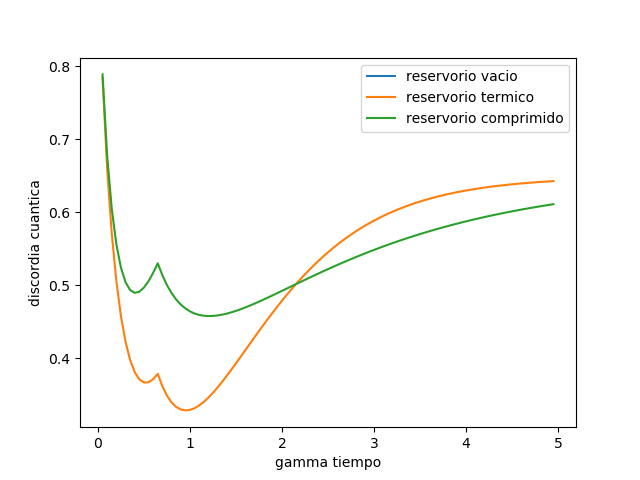
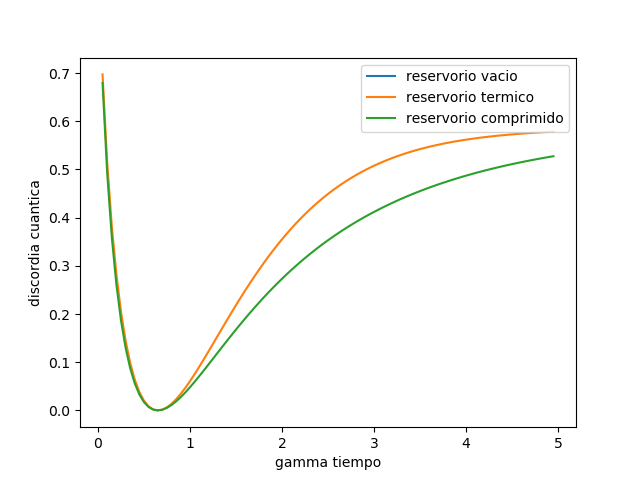
Cambio generado con script

diff --git a/master.py b/master.py
@@ -56,9 +56,9 @@ disc_I5_S0S=[0 for i in range(100)]
 
 for i in range (0,100):
       mat=Qobj(em_I1_S0S.states[i])
-      c1=0.5*mat.eigenenergies()[2]+mat.eigenenergies()[3]-mat.eigenenergies()[0]-mat.eigenenergies()[1]
-      c2=0.5*mat.eigenenergies()[1]+mat.eigenenergies()[3]-mat.eigenenergies()[0]-mat.eigenenergies()[2]
-      c3=0.5*mat.eigenenergies()[1]+mat.eigenenergies()[2]-mat.eigenenergies()[0]-mat.eigenenergies()[3]
+      c1=mat.eigenenergies()[2]+mat.eigenenergies()[3]-mat.eigenenergies()[0]-mat.eigenenergies()[1]
+      c2=mat.eigenenergies()[1]+mat.eigenenergies()[3]-mat.eigenenergies()[0]-mat.eigenenergies()[2]
+      c3=mat.eigenenergies()[1]+mat.eigenenergies()[2]-mat.eigenenergies()[0]-mat.eigenenergies()[3]
       print (c1,c2,c3)
       consar=np.array([c1,c2,c3])
       c=np.amax(consar)
@@ -67,9 +67,9 @@ for i in range (0,100):
 
 for i in range (0,100):
       mat=Qobj(em_I2_S0S.states[i])
-      c1=0.5*mat.eigenenergies()[2]+mat.eigenenergies()[3]-mat.eigenenergies()[0]-mat.eigenenergies()[1]
-      c2=0.5*mat.eigenenergies()[1]+mat.eigenenergies()[3]-mat.eigenenergies()[0]-mat.eigenenergies()[2]
-      c3=0.5*mat.eigenenergies()[1]+mat.eigenenergies()[2]-mat.eigenenergies()[0]-mat.eigenenergies()[3]
+      c1=mat.eigenenergies()[2]+mat.eigenenergies()[3]-mat.eigenenergies()[0]-mat.eigenenergies()[1]
+      c2=mat.eigenenergies()[1]+mat.eigenenergies()[3]-mat.eigenenergies()[0]-mat.eigenenergies()[2]
+      c3=mat.eigenenergies()[1]+mat.eigenenergies()[2]-mat.eigenenergies()[0]-mat.eigenenergies()[3]
       print (c1,c2,c3)
       consar=np.array([c1,c2,c3])
       c=np.amax(consar)
@@ -79,9 +79,9 @@ for i in range (0,100):
 
 for i in range (0,100):
       mat=Qobj(em_I3_S0S.states[i])
-      c1=0.5*mat.eigenenergies()[2]+mat.eigenenergies()[3]-mat.eigenenergies()[0]-mat.eigenenergies()[1]
-      c2=0.5*mat.eigenenergies()[1]+mat.eigenenergies()[3]-mat.eigenenergies()[0]-mat.eigenenergies()[2]
-      c3=0.5*mat.eigenenergies()[1]+mat.eigenenergies()[2]-mat.eigenenergies()[0]-mat.eigenenergies()[3]
+      c1=mat.eigenenergies()[2]+mat.eigenenergies()[3]-mat.eigenenergies()[0]-mat.eigenenergies()[1]
+      c2=mat.eigenenergies()[1]+mat.eigenenergies()[3]-mat.eigenenergies()[0]-mat.eigenenergies()[2]
+      c3=mat.eigenenergies()[1]+mat.eigenenergies()[2]-mat.eigenenergies()[0]-mat.eigenenergies()[3]
       print (c1,c2,c3)
       consar=np.array([c1,c2,c3])
       c=np.amax(consar)
@@ -91,9 +91,9 @@ for i in range (0,100):
 
 for i in range (0,100):
       mat=Qobj(em_I4_S0S.states[i])
-      c1=0.5*mat.eigenenergies()[2]+mat.eigenenergies()[3]-mat.eigenenergies()[0]-mat.eigenenergies()[1]
-      c2=0.5*mat.eigenenergies()[1]+mat.eigenenergies()[3]-mat.eigenenergies()[0]-mat.eigenenergies()[2]
-      c3=0.5*mat.eigenenergies()[1]+mat.eigenenergies()[2]-mat.eigenenergies()[0]-mat.eigenenergies()[3]
+      c1=mat.eigenenergies()[2]+mat.eigenenergies()[3]-mat.eigenenergies()[0]-mat.eigenenergies()[1]
+      c2=mat.eigenenergies()[1]+mat.eigenenergies()[3]-mat.eigenenergies()[0]-mat.eigenenergies()[2]
+      c3=mat.eigenenergies()[1]+mat.eigenenergies()[2]-mat.eigenenergies()[0]-mat.eigenenergies()[3]
       print(c1,c2,c3)
       consar=np.array([c1,c2,c3])
       c=np.amax(consar)
@@ -103,9 +103,9 @@ for i in range (0,100):
 
 for i in range (0,100):
       mat=Qobj(em_I5_S0S.states[i])
-      c1=0.5*mat.eigenenergies()[2]+mat.eigenenergies()[3]-mat.eigenenergies()[0]-mat.eigenenergies()[1]
-      c2=0.5*mat.eigenenergies()[1]+mat.eigenenergies()[3]-mat.eigenenergies()[0]-mat.eigenenergies()[2]
-      c3=0.5*mat.eigenenergies()[1]+mat.eigenenergies()[2]-mat.eigenenergies()[0]-mat.eigenenergies()[3]
+      c1=mat.eigenenergies()[2]+mat.eigenenergies()[3]-mat.eigenenergies()[0]-mat.eigenenergies()[1]
+      c2=mat.eigenenergies()[1]+mat.eigenenergies()[3]-mat.eigenenergies()[0]-mat.eigenenergies()[2]
+      c3=mat.eigenenergies()[1]+mat.eigenenergies()[2]-mat.eigenenergies()[0]-mat.eigenenergies()[3]
       print (c1,c2,c3)
       consar=np.array([c1,c2,c3])
       c=np.amax(consar)
@@ -126,9 +126,9 @@ conc_I5_S1S=[0 for i in range(100)]
 disc_I5_S1S=[0 for i in range(100)]
 for i in range (0,100):
       mat=Qobj(em_I1_S1S.states[i])
-      c1=0.5*mat.eigenenergies()[2]+mat.eigenenergies()[3]-mat.eigenenergies()[0]-mat.eigenenergies()[1]
-      c2=0.5*mat.eigenenergies()[1]+mat.eigenenergies()[3]-mat.eigenenergies()[0]-mat.eigenenergies()[2]
-      c3=0.5*mat.eigenenergies()[1]+mat.eigenenergies()[2]-mat.eigenenergies()[0]-mat.eigenenergies()[3]
+      c1=mat.eigenenergies()[2]+mat.eigenenergies()[3]-mat.eigenenergies()[0]-mat.eigenenergies()[1]
+      c2=mat.eigenenergies()[1]+mat.eigenenergies()[3]-mat.eigenenergies()[0]-mat.eigenenergies()[2]
+      c3=mat.eigenenergies()[1]+mat.eigenenergies()[2]-mat.eigenenergies()[0]-mat.eigenenergies()[3]
       print (c1,c2,c3)
       consar=np.array([c1,c2,c3])
       c=np.amax(consar)
@@ -138,9 +138,9 @@ for i in range (0,100):
 
 for i in range (0,100):
     mat=Qobj(em_I2_S1S.states[i])
-    c1=0.5*mat.eigenenergies()[2]+mat.eigenenergies()[3]-mat.eigenenergies()[0]-mat.eigenenergies()[1]
-    c2=0.5*mat.eigenenergies()[1]+mat.eigenenergies()[3]-mat.eigenenergies()[0]-mat.eigenenergies()[2]
-    c3=0.5*mat.eigenenergies()[1]+mat.eigenenergies()[2]-mat.eigenenergies()[0]-mat.eigenenergies()[3]
+    c1=mat.eigenenergies()[2]+mat.eigenenergies()[3]-mat.eigenenergies()[0]-mat.eigenenergies()[1]
+    c2=mat.eigenenergies()[1]+mat.eigenenergies()[3]-mat.eigenenergies()[0]-mat.eigenenergies()[2]
+    c3=mat.eigenenergies()[1]+mat.eigenenergies()[2]-mat.eigenenergies()[0]-mat.eigenenergies()[3]
     print (c1,c2,c3)
     consar=np.array([c1,c2,c3])
     c=np.amax(consar)
@@ -150,9 +150,9 @@ for i in range (0,100):
 
 for i in range (0,100):
     mat=Qobj(em_I3_S1S.states[i])
-    c1=0.5*mat.eigenenergies()[2]+mat.eigenenergies()[3]-mat.eigenenergies()[0]-mat.eigenenergies()[1]
-    c2=0.5*mat.eigenenergies()[1]+mat.eigenenergies()[3]-mat.eigenenergies()[0]-mat.eigenenergies()[2]
-    c3=0.5*mat.eigenenergies()[1]+mat.eigenenergies()[2]-mat.eigenenergies()[0]-mat.eigenenergies()[3]
+    c1=mat.eigenenergies()[2]+mat.eigenenergies()[3]-mat.eigenenergies()[0]-mat.eigenenergies()[1]
+    c2=mat.eigenenergies()[1]+mat.eigenenergies()[3]-mat.eigenenergies()[0]-mat.eigenenergies()[2]
+    c3=mat.eigenenergies()[1]+mat.eigenenergies()[2]-mat.eigenenergies()[0]-mat.eigenenergies()[3]
     print (c1,c2,c3)
     consar=np.array([c1,c2,c3])
     c=np.amax(consar)
@@ -162,9 +162,9 @@ for i in range (0,100):
 
 for i in range (0,100):
     mat=Qobj(em_I4_S1S.states[i])
-    c1=0.5*mat.eigenenergies()[2]+mat.eigenenergies()[3]-mat.eigenenergies()[0]-mat.eigenenergies()[1]
-    c2=0.5*mat.eigenenergies()[1]+mat.eigenenergies()[3]-mat.eigenenergies()[0]-mat.eigenenergies()[2]
-    c3=0.5*mat.eigenenergies()[1]+mat.eigenenergies()[2]-mat.eigenenergies()[0]-mat.eigenenergies()[3]
+    c1=mat.eigenenergies()[2]+mat.eigenenergies()[3]-mat.eigenenergies()[0]-mat.eigenenergies()[1]
+    c2=mat.eigenenergies()[1]+mat.eigenenergies()[3]-mat.eigenenergies()[0]-mat.eigenenergies()[2]
+    c3=mat.eigenenergies()[1]+mat.eigenenergies()[2]-mat.eigenenergies()[0]-mat.eigenenergies()[3]
     print (c1,c2,c3)
     consar=np.array([c1,c2,c3])
     c=np.amax(consar)
@@ -173,9 +173,9 @@ for i in range (0,100):
 
 for i in range (0,100):
     mat=Qobj(em_I5_S1S.states[i])
-    c1=0.5*mat.eigenenergies()[2]+mat.eigenenergies()[3]-mat.eigenenergies()[0]-mat.eigenenergies()[1]
-    c2=0.5*mat.eigenenergies()[1]+mat.eigenenergies()[3]-mat.eigenenergies()[0]-mat.eigenenergies()[2]
-    c3=0.5*mat.eigenenergies()[1]+mat.eigenenergies()[2]-mat.eigenenergies()[0]-mat.eigenenergies()[3]
+    c1=mat.eigenenergies()[2]+mat.eigenenergies()[3]-mat.eigenenergies()[0]-mat.eigenenergies()[1]
+    c2=mat.eigenenergies()[1]+mat.eigenenergies()[3]-mat.eigenenergies()[0]-mat.eigenenergies()[2]
+    c3=mat.eigenenergies()[1]+mat.eigenenergies()[2]-mat.eigenenergies()[0]-mat.eigenenergies()[3]
     print (c1,c2,c3)
     consar=np.array([c1,c2,c3])
     c=np.amax(consar)
@@ -196,9 +196,9 @@ conc_I5_S2S=[0 for i in range(100)]
 disc_I5_S2S=[0 for i in range(100)]
 for i in range (0,100):
     mat=Qobj(em_I1_S2S.states[i])
-    c1=0.5*mat.eigenenergies()[2]+mat.eigenenergies()[3]-mat.eigenenergies()[0]-mat.eigenenergies()[1]
-    c2=0.5*mat.eigenenergies()[1]+mat.eigenenergies()[3]-mat.eigenenergies()[0]-mat.eigenenergies()[2]
-    c3=0.5*mat.eigenenergies()[1]+mat.eigenenergies()[2]-mat.eigenenergies()[0]-mat.eigenenergies()[3]
+    c1=mat.eigenenergies()[2]+mat.eigenenergies()[3]-mat.eigenenergies()[0]-mat.eigenenergies()[1]
+    c2=mat.eigenenergies()[1]+mat.eigenenergies()[3]-mat.eigenenergies()[0]-mat.eigenenergies()[2]
+    c3=mat.eigenenergies()[1]+mat.eigenenergies()[2]-mat.eigenenergies()[0]-mat.eigenenergies()[3]
     print (c1,c2,c3)
     consar=np.array([c1,c2,c3])
     c=np.amax(consar)
@@ -207,9 +207,9 @@ for i in range (0,100):
 
 for i in range (0,100):
     mat=Qobj(em_I2_S2S.states[i])
-    c1=0.5*mat.eigenenergies()[2]+mat.eigenenergies()[3]-mat.eigenenergies()[0]-mat.eigenenergies()[1]
-    c2=0.5*mat.eigenenergies()[1]+mat.eigenenergies()[3]-mat.eigenenergies()[0]-mat.eigenenergies()[2]
-    c3=0.5*mat.eigenenergies()[1]+mat.eigenenergies()[2]-mat.eigenenergies()[0]-mat.eigenenergies()[3]
+    c1=mat.eigenenergies()[2]+mat.eigenenergies()[3]-mat.eigenenergies()[0]-mat.eigenenergies()[1]
+    c2=mat.eigenenergies()[1]+mat.eigenenergies()[3]-mat.eigenenergies()[0]-mat.eigenenergies()[2]
+    c3=mat.eigenenergies()[1]+mat.eigenenergies()[2]-mat.eigenenergies()[0]-mat.eigenenergies()[3]
     print (c1,c2,c3)
     consar=np.array([c1,c2,c3])
     c=np.amax(consar)
@@ -218,9 +218,9 @@ for i in range (0,100):
 
 for i in range (0,100):
     mat=Qobj(em_I3_S2S.states[i])
-    c1=0.5*mat.eigenenergies()[2]+mat.eigenenergies()[3]-mat.eigenenergies()[0]-mat.eigenenergies()[1]
-    c2=0.5*mat.eigenenergies()[1]+mat.eigenenergies()[3]-mat.eigenenergies()[0]-mat.eigenenergies()[2]
-    c3=0.5*mat.eigenenergies()[1]+mat.eigenenergies()[2]-mat.eigenenergies()[0]-mat.eigenenergies()[3]
+    c1=mat.eigenenergies()[2]+mat.eigenenergies()[3]-mat.eigenenergies()[0]-mat.eigenenergies()[1]
+    c2=mat.eigenenergies()[1]+mat.eigenenergies()[3]-mat.eigenenergies()[0]-mat.eigenenergies()[2]
+    c3=mat.eigenenergies()[1]+mat.eigenenergies()[2]-mat.eigenenergies()[0]-mat.eigenenergies()[3]
     print (c1,c2,c3)
     consar=np.array([c1,c2,c3])
     c=np.amax(consar)
@@ -230,9 +230,9 @@ for i in range (0,100):
 
 for i in range (0,100):
     mat=Qobj(em_I4_S2S.states[i])
-    c1=0.5*mat.eigenenergies()[2]+mat.eigenenergies()[3]-mat.eigenenergies()[0]-mat.eigenenergies()[1]
-    c2=0.5*mat.eigenenergies()[1]+mat.eigenenergies()[3]-mat.eigenenergies()[0]-mat.eigenenergies()[2]
-    c3=0.5*mat.eigenenergies()[1]+mat.eigenenergies()[2]-mat.eigenenergies()[0]-mat.eigenenergies()[3]
+    c1=mat.eigenenergies()[2]+mat.eigenenergies()[3]-mat.eigenenergies()[0]-mat.eigenenergies()[1]
+    c2=mat.eigenenergies()[1]+mat.eigenenergies()[3]-mat.eigenenergies()[0]-mat.eigenenergies()[2]
+    c3=mat.eigenenergies()[1]+mat.eigenenergies()[2]-mat.eigenenergies()[0]-mat.eigenenergies()[3]
     print (c1,c2,c3)
     consar=np.array([c1,c2,c3])
     c=np.amax(consar)
@@ -242,9 +242,9 @@ for i in range (0,100):
 
 for i in range (0,100):
     mat=Qobj(em_I5_S2S.states[i])
-    c1=0.5*mat.eigenenergies()[2]+mat.eigenenergies()[3]-mat.eigenenergies()[0]-mat.eigenenergies()[1]
-    c2=0.5*mat.eigenenergies()[1]+mat.eigenenergies()[3]-mat.eigenenergies()[0]-mat.eigenenergies()[2]
-    c3=0.5*mat.eigenenergies()[1]+mat.eigenenergies()[2]-mat.eigenenergies()[0]-mat.eigenenergies()[3]
+    c1=mat.eigenenergies()[2]+mat.eigenenergies()[3]-mat.eigenenergies()[0]-mat.eigenenergies()[1]
+    c2=mat.eigenenergies()[1]+mat.eigenenergies()[3]-mat.eigenenergies()[0]-mat.eigenenergies()[2]
+    c3=mat.eigenenergies()[1]+mat.eigenenergies()[2]-mat.eigenenergies()[0]-mat.eigenenergies()[3]
     print (c1,c2,c3)
     consar=np.array([c1,c2,c3])
     c=np.amax(consar)
@@ -265,9 +265,9 @@ conc_I5_S0C=[0 for i in range(100)]
 disc_I5_S0C=[0 for i in range(100)]
 for i in range (0,100):
     mat=Qobj(em_I1_S0C.states[i])
-    c1=0.5*mat.eigenenergies()[2]+mat.eigenenergies()[3]-mat.eigenenergies()[0]-mat.eigenenergies()[1]
-    c2=0.5*mat.eigenenergies()[1]+mat.eigenenergies()[3]-mat.eigenenergies()[0]-mat.eigenenergies()[2]
-    c3=0.5*mat.eigenenergies()[1]+mat.eigenenergies()[2]-mat.eigenenergies()[0]-mat.eigenenergies()[3]
+    c1=mat.eigenenergies()[2]+mat.eigenenergies()[3]-mat.eigenenergies()[0]-mat.eigenenergies()[1]
+    c2=mat.eigenenergies()[1]+mat.eigenenergies()[3]-mat.eigenenergies()[0]-mat.eigenenergies()[2]
+    c3=mat.eigenenergies()[1]+mat.eigenenergies()[2]-mat.eigenenergies()[0]-mat.eigenenergies()[3]
     print (c1,c2,c3)
     consar=np.array([c1,c2,c3])
     c=np.amax(consar)
@@ -277,9 +277,9 @@ for i in range (0,100):
 
 for i in range (0,100):
     mat=Qobj(em_I2_S0C.states[i])
-    c1=0.5*mat.eigenenergies()[2]+mat.eigenenergies()[3]-mat.eigenenergies()[0]-mat.eigenenergies()[1]
-    c2=0.5*mat.eigenenergies()[1]+mat.eigenenergies()[3]-mat.eigenenergies()[0]-mat.eigenenergies()[2]
-    c3=0.5*mat.eigenenergies()[1]+mat.eigenenergies()[2]-mat.eigenenergies()[0]-mat.eigenenergies()[3]
+    c1=mat.eigenenergies()[2]+mat.eigenenergies()[3]-mat.eigenenergies()[0]-mat.eigenenergies()[1]
+    c2=mat.eigenenergies()[1]+mat.eigenenergies()[3]-mat.eigenenergies()[0]-mat.eigenenergies()[2]
+    c3=mat.eigenenergies()[1]+mat.eigenenergies()[2]-mat.eigenenergies()[0]-mat.eigenenergies()[3]
     print (c1,c2,c3)
     consar=np.array([c1,c2,c3])
     c=np.amax(consar)
@@ -289,9 +289,9 @@ for i in range (0,100):
 
 for i in range (0,100):
     mat=Qobj(em_I3_S0C.states[i])
-    c1=0.5*mat.eigenenergies()[2]+mat.eigenenergies()[3]-mat.eigenenergies()[0]-mat.eigenenergies()[1]
-    c2=0.5*mat.eigenenergies()[1]+mat.eigenenergies()[3]-mat.eigenenergies()[0]-mat.eigenenergies()[2]
-    c3=0.5*mat.eigenenergies()[1]+mat.eigenenergies()[2]-mat.eigenenergies()[0]-mat.eigenenergies()[3]
+    c1=mat.eigenenergies()[2]+mat.eigenenergies()[3]-mat.eigenenergies()[0]-mat.eigenenergies()[1]
+    c2=mat.eigenenergies()[1]+mat.eigenenergies()[3]-mat.eigenenergies()[0]-mat.eigenenergies()[2]
+    c3=mat.eigenenergies()[1]+mat.eigenenergies()[2]-mat.eigenenergies()[0]-mat.eigenenergies()[3]
     print (c1,c2,c3)
     consar=np.array([c1,c2,c3])
     c=np.amax(consar)
@@ -301,9 +301,9 @@ for i in range (0,100):
 
 for i in range (0,100):
     mat=Qobj(em_I4_S0C.states[i])
-    c1=0.5*mat.eigenenergies()[2]+mat.eigenenergies()[3]-mat.eigenenergies()[0]-mat.eigenenergies()[1]
-    c2=0.5*mat.eigenenergies()[1]+mat.eigenenergies()[3]-mat.eigenenergies()[0]-mat.eigenenergies()[2]
-    c3=0.5*mat.eigenenergies()[1]+mat.eigenenergies()[2]-mat.eigenenergies()[0]-mat.eigenenergies()[3]
+    c1=mat.eigenenergies()[2]+mat.eigenenergies()[3]-mat.eigenenergies()[0]-mat.eigenenergies()[1]
+    c2=mat.eigenenergies()[1]+mat.eigenenergies()[3]-mat.eigenenergies()[0]-mat.eigenenergies()[2]
+    c3=mat.eigenenergies()[1]+mat.eigenenergies()[2]-mat.eigenenergies()[0]-mat.eigenenergies()[3]
     print(c1,c2,c3)
     consar=np.array([c1,c2,c3])
     c=np.amax(consar)
@@ -313,9 +313,9 @@ for i in range (0,100):
 
 for i in range (0,100):
     mat=Qobj(em_I5_S0C.states[i])
-    c1=0.5*mat.eigenenergies()[2]+mat.eigenenergies()[3]-mat.eigenenergies()[0]-mat.eigenenergies()[1]
-    c2=0.5*mat.eigenenergies()[1]+mat.eigenenergies()[3]-mat.eigenenergies()[0]-mat.eigenenergies()[2]
-    c3=0.5*mat.eigenenergies()[1]+mat.eigenenergies()[2]-mat.eigenenergies()[0]-mat.eigenenergies()[3]
+    c1=mat.eigenenergies()[2]+mat.eigenenergies()[3]-mat.eigenenergies()[0]-mat.eigenenergies()[1]
+    c2=mat.eigenenergies()[1]+mat.eigenenergies()[3]-mat.eigenenergies()[0]-mat.eigenenergies()[2]
+    c3=mat.eigenenergies()[1]+mat.eigenenergies()[2]-mat.eigenenergies()[0]-mat.eigenenergies()[3]
     print (c1,c2,c3)
     consar=np.array([c1,c2,c3])
     c=np.amax(consar)
@@ -336,9 +336,9 @@ conc_I5_S1C=[0 for i in range(100)]
 disc_I5_S1C=[0 for i in range(100)]
 for i in range (0,100):
     mat=Qobj(em_I1_S1C.states[i])
-    c1=0.5*mat.eigenenergies()[2]+mat.eigenenergies()[3]-mat.eigenenergies()[0]-mat.eigenenergies()[1]
-    c2=0.5*mat.eigenenergies()[1]+mat.eigenenergies()[3]-mat.eigenenergies()[0]-mat.eigenenergies()[2]
-    c3=0.5*mat.eigenenergies()[1]+mat.eigenenergies()[2]-mat.eigenenergies()[0]-mat.eigenenergies()[3]
+    c1=mat.eigenenergies()[2]+mat.eigenenergies()[3]-mat.eigenenergies()[0]-mat.eigenenergies()[1]
+    c2=mat.eigenenergies()[1]+mat.eigenenergies()[3]-mat.eigenenergies()[0]-mat.eigenenergies()[2]
+    c3=mat.eigenenergies()[1]+mat.eigenenergies()[2]-mat.eigenenergies()[0]-mat.eigenenergies()[3]
     print (c1,c2,c3)
     consar=np.array([c1,c2,c3])
     c=np.amax(consar)
@@ -348,9 +348,9 @@ for i in range (0,100):
     
 for i in range (0,100):
     mat=Qobj(em_I2_S1C.states[i])
-    c1=0.5*mat.eigenenergies()[2]+mat.eigenenergies()[3]-mat.eigenenergies()[0]-mat.eigenenergies()[1]
-    c2=0.5*mat.eigenenergies()[1]+mat.eigenenergies()[3]-mat.eigenenergies()[0]-mat.eigenenergies()[2]
-    c3=0.5*mat.eigenenergies()[1]+mat.eigenenergies()[2]-mat.eigenenergies()[0]-mat.eigenenergies()[3]
+    c1=mat.eigenenergies()[2]+mat.eigenenergies()[3]-mat.eigenenergies()[0]-mat.eigenenergies()[1]
+    c2=mat.eigenenergies()[1]+mat.eigenenergies()[3]-mat.eigenenergies()[0]-mat.eigenenergies()[2]
+    c3=mat.eigenenergies()[1]+mat.eigenenergies()[2]-mat.eigenenergies()[0]-mat.eigenenergies()[3]
     print (c1,c2,c3)
     consar=np.array([c1,c2,c3])
     c=np.amax(consar)
@@ -360,9 +360,9 @@ for i in range (0,100):
 
 for i in range (0,100):
     mat=Qobj(em_I3_S1C.states[i])
-    c1=0.5*mat.eigenenergies()[2]+mat.eigenenergies()[3]-mat.eigenenergies()[0]-mat.eigenenergies()[1]
-    c2=0.5*mat.eigenenergies()[1]+mat.eigenenergies()[3]-mat.eigenenergies()[0]-mat.eigenenergies()[2]
-    c3=0.5*mat.eigenenergies()[1]+mat.eigenenergies()[2]-mat.eigenenergies()[0]-mat.eigenenergies()[3]
+    c1=mat.eigenenergies()[2]+mat.eigenenergies()[3]-mat.eigenenergies()[0]-mat.eigenenergies()[1]
+    c2=mat.eigenenergies()[1]+mat.eigenenergies()[3]-mat.eigenenergies()[0]-mat.eigenenergies()[2]
+    c3=mat.eigenenergies()[1]+mat.eigenenergies()[2]-mat.eigenenergies()[0]-mat.eigenenergies()[3]
     print (c1,c2,c3)
     consar=np.array([c1,c2,c3])
     c=np.amax(consar)
@@ -372,9 +372,9 @@ for i in range (0,100):
 
 for i in range (0,100):
     mat=Qobj(em_I4_S1C.states[i])
-    c1=0.5*mat.eigenenergies()[2]+mat.eigenenergies()[3]-mat.eigenenergies()[0]-mat.eigenenergies()[1]
-    c2=0.5*mat.eigenenergies()[1]+mat.eigenenergies()[3]-mat.eigenenergies()[0]-mat.eigenenergies()[2]
-    c3=0.5*mat.eigenenergies()[1]+mat.eigenenergies()[2]-mat.eigenenergies()[0]-mat.eigenenergies()[3]
+    c1=mat.eigenenergies()[2]+mat.eigenenergies()[3]-mat.eigenenergies()[0]-mat.eigenenergies()[1]
+    c2=mat.eigenenergies()[1]+mat.eigenenergies()[3]-mat.eigenenergies()[0]-mat.eigenenergies()[2]
+    c3=mat.eigenenergies()[1]+mat.eigenenergies()[2]-mat.eigenenergies()[0]-mat.eigenenergies()[3]
     print (c1,c2,c3)
     consar=np.array([c1,c2,c3])
     c=np.amax(consar)
@@ -384,9 +384,9 @@ for i in range (0,100):
 
 for i in range (0,100):
     mat=Qobj(em_I5_S1C.states[i])
-    c1=0.5*mat.eigenenergies()[2]+mat.eigenenergies()[3]-mat.eigenenergies()[0]-mat.eigenenergies()[1]
-    c2=0.5*mat.eigenenergies()[1]+mat.eigenenergies()[3]-mat.eigenenergies()[0]-mat.eigenenergies()[2]
-    c3=0.5*mat.eigenenergies()[1]+mat.eigenenergies()[2]-mat.eigenenergies()[0]-mat.eigenenergies()[3]
+    c1=mat.eigenenergies()[2]+mat.eigenenergies()[3]-mat.eigenenergies()[0]-mat.eigenenergies()[1]
+    c2=mat.eigenenergies()[1]+mat.eigenenergies()[3]-mat.eigenenergies()[0]-mat.eigenenergies()[2]
+    c3=mat.eigenenergies()[1]+mat.eigenenergies()[2]-mat.eigenenergies()[0]-mat.eigenenergies()[3]
     print (c1,c2,c3)
     consar=np.array([c1,c2,c3])
     c=np.amax(consar)
@@ -407,9 +407,9 @@ conc_I5_S2C=[0 for i in range(100)]
 disc_I5_S2C=[0 for i in range(100)]
 for i in range (0,100):
     mat=Qobj(em_I1_S2C.states[i])
-    c1=0.5*mat.eigenenergies()[2]+mat.eigenenergies()[3]-mat.eigenenergies()[0]-mat.eigenenergies()[1]
-    c2=0.5*mat.eigenenergies()[1]+mat.eigenenergies()[3]-mat.eigenenergies()[0]-mat.eigenenergies()[2]
-    c3=0.5*mat.eigenenergies()[1]+mat.eigenenergies()[2]-mat.eigenenergies()[0]-mat.eigenenergies()[3]
+    c1=mat.eigenenergies()[2]+mat.eigenenergies()[3]-mat.eigenenergies()[0]-mat.eigenenergies()[1]
+    c2=mat.eigenenergies()[1]+mat.eigenenergies()[3]-mat.eigenenergies()[0]-mat.eigenenergies()[2]
+    c3=mat.eigenenergies()[1]+mat.eigenenergies()[2]-mat.eigenenergies()[0]-mat.eigenenergies()[3]
     print (c1,c2,c3)
     consar=np.array([c1,c2,c3])
     c=np.amax(consar)
@@ -418,9 +418,9 @@ for i in range (0,100):
 
 for i in range (0,100):
     mat=Qobj(em_I2_S2C.states[i])
-    c1=0.5*mat.eigenenergies()[2]+mat.eigenenergies()[3]-mat.eigenenergies()[0]-mat.eigenenergies()[1]
-    c2=0.5*mat.eigenenergies()[1]+mat.eigenenergies()[3]-mat.eigenenergies()[0]-mat.eigenenergies()[2]
-    c3=0.5*mat.eigenenergies()[1]+mat.eigenenergies()[2]-mat.eigenenergies()[0]-mat.eigenenergies()[3]
+    c1=mat.eigenenergies()[2]+mat.eigenenergies()[3]-mat.eigenenergies()[0]-mat.eigenenergies()[1]
+    c2=mat.eigenenergies()[1]+mat.eigenenergies()[3]-mat.eigenenergies()[0]-mat.eigenenergies()[2]
+    c3=mat.eigenenergies()[1]+mat.eigenenergies()[2]-mat.eigenenergies()[0]-mat.eigenenergies()[3]
     print (c1,c2,c3)
     consar=np.array([c1,c2,c3])
     c=np.amax(consar)
@@ -429,9 +429,9 @@ for i in range (0,100):
 
 for i in range (0,100):
     mat=Qobj(em_I3_S2C.states[i])
-    c1=0.5*mat.eigenenergies()[2]+mat.eigenenergies()[3]-mat.eigenenergies()[0]-mat.eigenenergies()[1]
-    c2=0.5*mat.eigenenergies()[1]+mat.eigenenergies()[3]-mat.eigenenergies()[0]-mat.eigenenergies()[2]
-    c3=0.5*mat.eigenenergies()[1]+mat.eigenenergies()[2]-mat.eigenenergies()[0]-mat.eigenenergies()[3]
+    c1=mat.eigenenergies()[2]+mat.eigenenergies()[3]-mat.eigenenergies()[0]-mat.eigenenergies()[1]
+    c2=mat.eigenenergies()[1]+mat.eigenenergies()[3]-mat.eigenenergies()[0]-mat.eigenenergies()[2]
+    c3=mat.eigenenergies()[1]+mat.eigenenergies()[2]-mat.eigenenergies()[0]-mat.eigenenergies()[3]
     print (c1,c2,c3)
     consar=np.array([c1,c2,c3])
     c=np.amax(consar)
@@ -441,9 +441,9 @@ for i in range (0,100):
 
 for i in range (0,100):
     mat=Qobj(em_I4_S2C.states[i])
-    c1=0.5*mat.eigenenergies()[2]+mat.eigenenergies()[3]-mat.eigenenergies()[0]-mat.eigenenergies()[1]
-    c2=0.5*mat.eigenenergies()[1]+mat.eigenenergies()[3]-mat.eigenenergies()[0]-mat.eigenenergies()[2]
-    c3=0.5*mat.eigenenergies()[1]+mat.eigenenergies()[2]-mat.eigenenergies()[0]-mat.eigenenergies()[3]
+    c1=mat.eigenenergies()[2]+mat.eigenenergies()[3]-mat.eigenenergies()[0]-mat.eigenenergies()[1]
+    c2=mat.eigenenergies()[1]+mat.eigenenergies()[3]-mat.eigenenergies()[0]-mat.eigenenergies()[2]
+    c3=mat.eigenenergies()[1]+mat.eigenenergies()[2]-mat.eigenenergies()[0]-mat.eigenenergies()[3]
     print (c1,c2,c3)
     consar=np.array([c1,c2,c3])
     c=np.amax(consar)
@@ -453,9 +453,9 @@ for i in range (0,100):
 
 for i in range (0,100):
     mat=Qobj(em_I5_S2C.states[i])
-    c1=0.5*mat.eigenenergies()[2]+mat.eigenenergies()[3]-mat.eigenenergies()[0]-mat.eigenenergies()[1]
-    c2=0.5*mat.eigenenergies()[1]+mat.eigenenergies()[3]-mat.eigenenergies()[0]-mat.eigenenergies()[2]
-    c3=0.5*mat.eigenenergies()[1]+mat.eigenenergies()[2]-mat.eigenenergies()[0]-mat.eigenenergies()[3]
+    c1=mat.eigenenergies()[2]+mat.eigenenergies()[3]-mat.eigenenergies()[0]-mat.eigenenergies()[1]
+    c2=mat.eigenenergies()[1]+mat.eigenenergies()[3]-mat.eigenenergies()[0]-mat.eigenenergies()[2]
+    c3=mat.eigenenergies()[1]+mat.eigenenergies()[2]-mat.eigenenergies()[0]-mat.eigenenergies()[3]
     print (c1,c2,c3)
     consar=np.array([c1,c2,c3])
     c=np.amax(consar)
